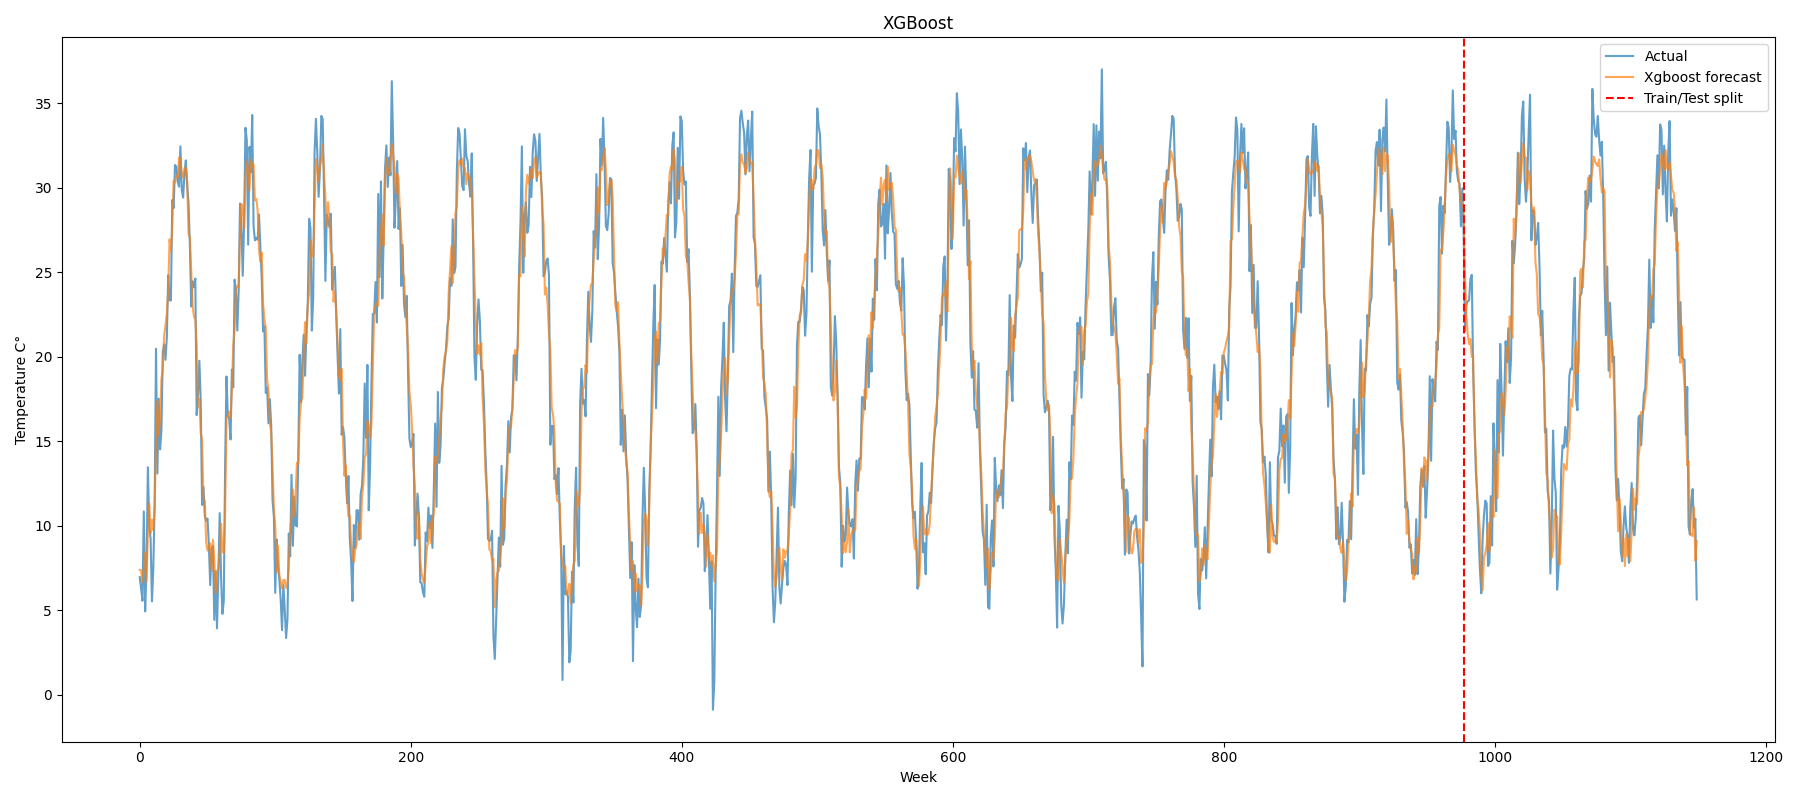
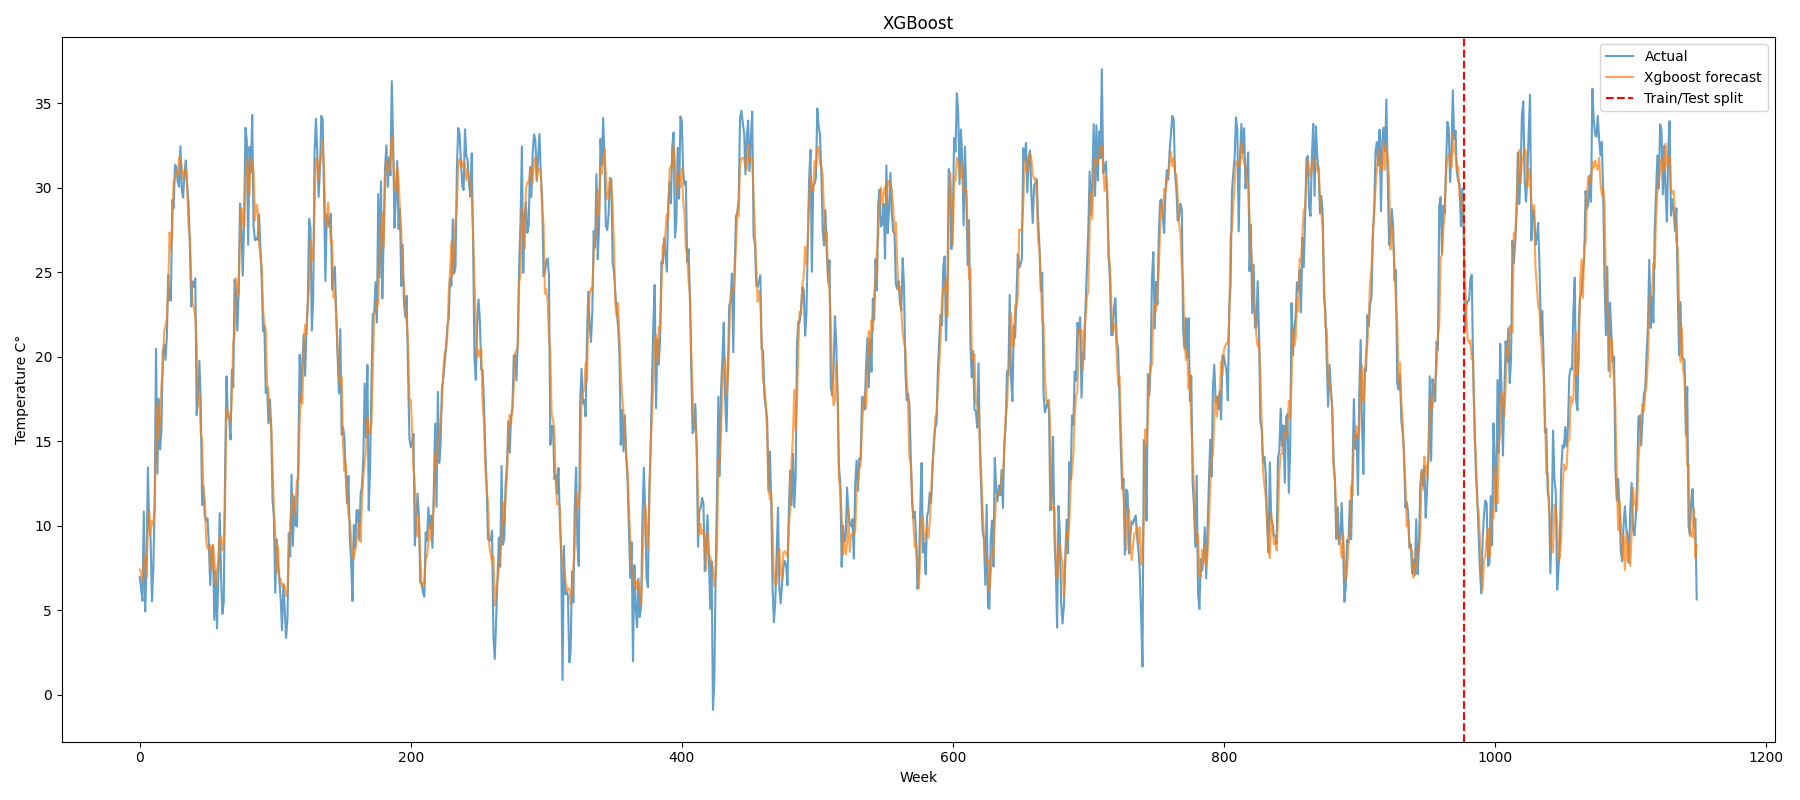
feat: diebold mariano

Changed region(s): [[0.4978, 0.6562, 0.5289, 0.6875], [0.4667, 0.2188, 0.4978, 0.25]]

diff --git a/eraclito/project.py b/eraclito/project.py
@@ -17,6 +17,7 @@ from statsmodels.tsa.statespace.sarimax import SARIMAX, SARIMAXResults
 from torch.utils.data import DataLoader, Dataset
 from xgboost import XGBRegressor
 
+from dm_test import dm_test
 
 def set_seed(seed=42):
     random.seed(seed)
@@ -225,7 +226,7 @@ if __name__ == "__main__":
 
     # SARIMAX
     if True:
-        split = 0.8
+        split = 0.85
         train_size = int(len(dataset) * split)
         test_size = len(dataset) - train_size
         dataset_indexed = dataset.set_index(PragaDate)
@@ -281,6 +282,9 @@ if __name__ == "__main__":
         plt.tight_layout()
         plt.savefig('Sarimax_figure.png')
         print("Saved plot to file: Sarimax_figure.png")
+
+        sarimax_test = dataset_indexed[DAILY_TMAX][-test_size:]
+        sarimax_prediction = full_forecast[-test_size:]
 
     # LSTM / MLP
     if True:
@@ -356,8 +360,8 @@ if __name__ == "__main__":
                     loss = loss_fn(pred, Y_batch)
                     loss.backward()
                     optimizer.step()
-                    if epoch % 10 == 0:
-                        print(f'Finished epoch {epoch}, latest loss {loss}')
+                if epoch % 10 == 0:
+                    print(f'Finished epoch {epoch}, latest loss {loss}')
 
             print("Saved MLP model to file: best_mlp.pt")
             torch.save(model.state_dict(), 'best_mlp.pt')
@@ -373,10 +377,6 @@ if __name__ == "__main__":
                 model(torch.tensor(X_test, dtype=torch.float32)).numpy()
             )
 
-        rmse = root_mean_squared_error(test[target].values, test_pred)
-
-        print(f"Final MPL RMSE: {rmse}")
-
         full_pred = np.concatenate([train_pred, test_pred])
         actual = dataset_indexed[target].values
 
@@ -391,6 +391,9 @@ if __name__ == "__main__":
         plt.tight_layout()
         plt.savefig('MLP_figure.png')
         print("Saved plot to file: MLP_figure.png")
+
+        mlp_test = test[target].values
+        mlp_prediction = np.array(test_pred).flatten()
 
     # Optuna + (XGBoost / RandomForest)
     if True:
@@ -480,6 +483,55 @@ if __name__ == "__main__":
         plt.savefig('Boost_figure.png')
         print("Saved plot to file: Boost_figure.png")
 
+        xgbboost_test = test[target].values
+        xgbboost_prediction = Y_forecast[-test_size:]
         pass
+
+    # Diebol mariano
+    if True:
+        sarimax_rmse = root_mean_squared_error(sarimax_test, sarimax_prediction)
+        print(f"Sarimax RMSE: {sarimax_rmse}")
+
+        mlp_rmse = root_mean_squared_error(mlp_test, mlp_prediction)
+        print(f"Final MPL RMSE: {mlp_rmse}")
+
+        boost_rmse = root_mean_squared_error(xgbboost_test, xgbboost_prediction)
+        print(f"Final Boost RMSE: {boost_rmse}")
+
+        test = dataset_indexed[-test_size:][DAILY_TMAX]
+
+        if True:
+            rt = dm_test(test, sarimax_prediction[-test_size:], xgbboost_prediction[-test_size:],crit='MSE')
+            ho = np.abs(rt[1]) < 0.025
+            print(f"Null Hypothesis between SARIMAX and XGBOOST approach (False = models are not statistically equivalent): {ho}")
+            pass
+
+        if True:
+            rt = dm_test(test, mlp_prediction[-test_size:], xgbboost_prediction[-test_size:], crit='MSE')
+            ho = np.abs(rt[1]) < 0.025
+            print(f"Null Hypothesis between MLP and XGBOOST approach (False = models are not statistically equivalent): {ho}")
+            pass
+
+        if True:
+            rt = dm_test(test, sarimax_prediction[-test_size:], mlp_prediction[-test_size:], crit='MSE')
+            ho = np.abs(rt[1]) < 0.025
+            print(f"Null Hypothesis between SARIMAX and MLP approach (False = models are not statistically equivalent): {ho}")
+            pass
+
+    if True:
+        display = [test_size + i for i in range(test_size)]
+
+        fig, ax = plt.subplots(figsize=(18, 8))
+        ax.set_title("Model Predictions")
+        ax.plot(display, test, label='Actual', alpha=0.7)
+        ax.plot(display, sarimax_prediction[-test_size:], label='Sarimax prediction', alpha=0.7)
+        ax.plot(display, xgbboost_prediction, label='Xgboost prediction', alpha=0.7)
+        ax.plot(display, mlp_prediction, label='MLP prediction', alpha=0.7)
+        ax.set_xlabel("Week")
+        ax.set_ylabel("Temperature C°")
+        ax.legend()
+        plt.tight_layout()
+        plt.savefig('Models_figure.png')
+        print("Saved plot to file: Models_figure.png")
 
     plt.show(block=True)
